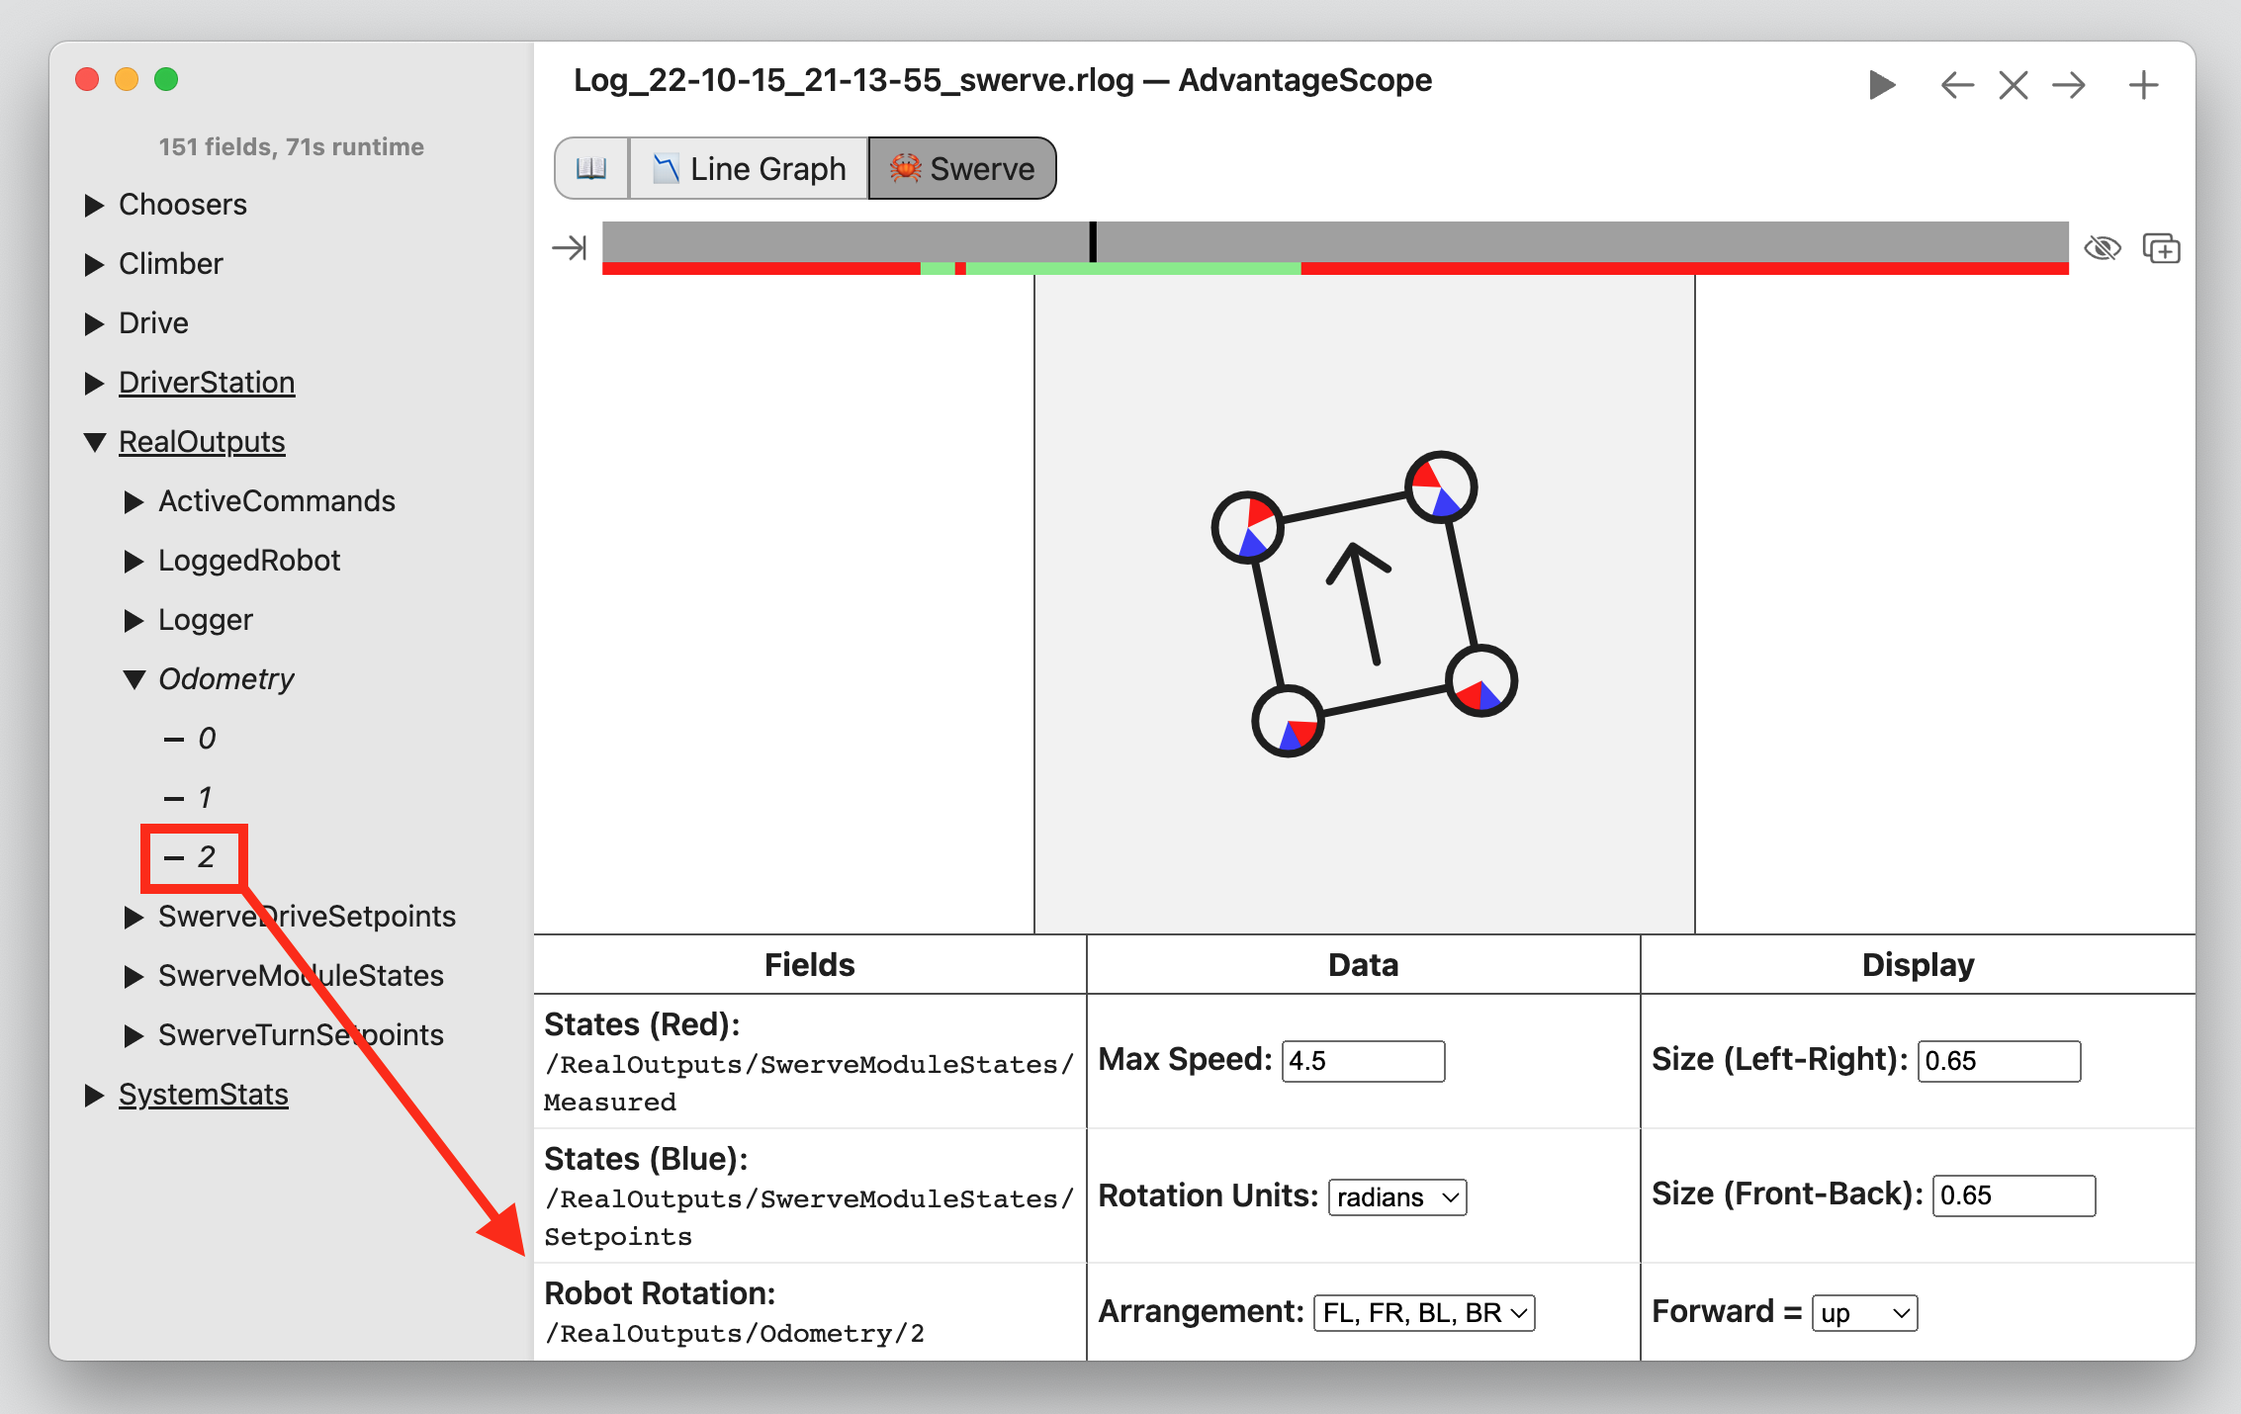
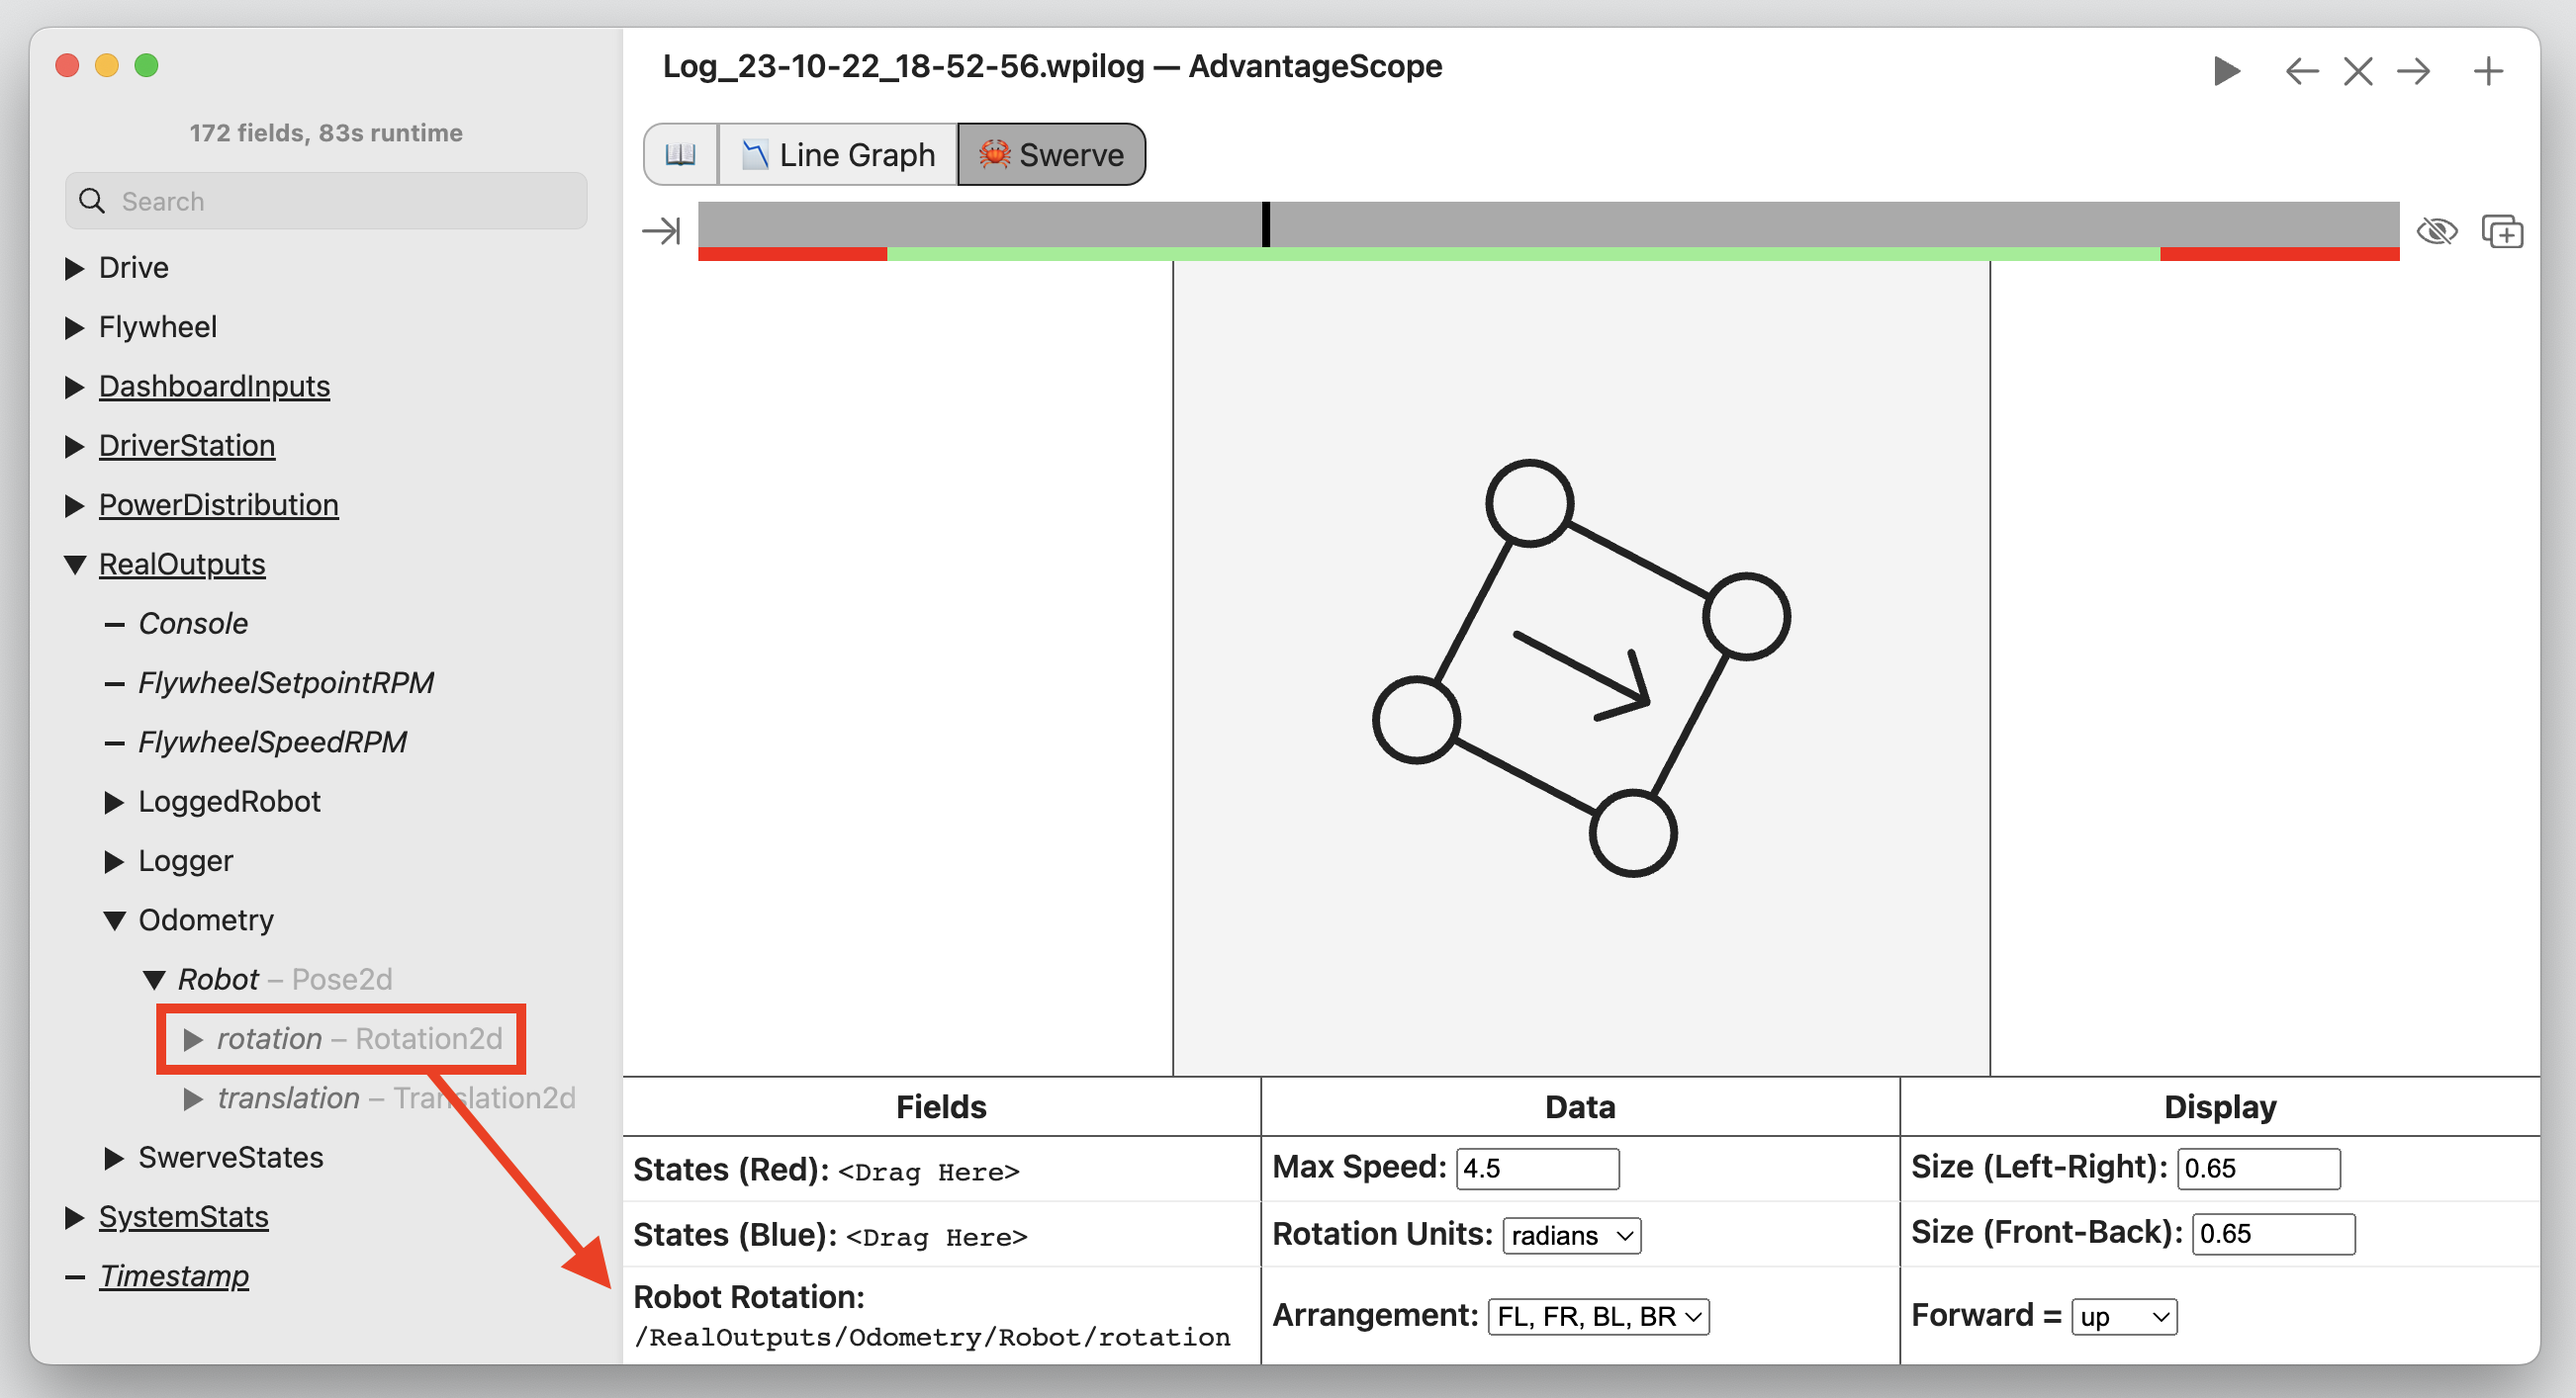
Add struct & protobuf formats to docs

diff --git a/docs/tabs/3D-FIELD.md b/docs/tabs/3D-FIELD.md
@@ -10,13 +10,49 @@ This tab shows a 3D visualization of the robot and field. It can be used with re
 
 ## Pose Data
 
-> Note: WPILib and AdvantageKit are planning to add struct & protobuf support before the 2024 season. This will allow for poses to be directly logged from robot code without converting to numeric arrays. More information about this feature will be available soon.
+To add a field with pose data, drag it from the sidebar to the box under "3D Poses" or "2D Poses" and use the drop down to select an object type. Multiple sets of objects can be added this way, and fields can be included multiple times. To remove a set of objects, right-click the field name. The origin and units are configurable.
 
-To add a field with pose data, drag it from the sidebar to the box under "3D Poses" or "2D Poses" and use the drop down to select an object type. Multiple sets of objects can be added this way, and fields can be included multiple times. To remove a set of objects, right-click the field name.
+### Structured Format
 
-All pose data must be stored as a numeric array describing one or more poses with the formats shown below.
+Pose data can be stored as a byte-encoded struct or protobuf. The following data types are supported:
 
-### 2D Poses
+- `Pose3d`
+- `Pose2d`
+- `Translation3d`
+- `Translation2d`
+- `Transform3d`
+- `Transform2d`
+- `AprilTag`
+- `Trajectory`
+
+The example code below show how to log pose data using WPILib or AdvantageKit.
+
+```java
+Pose3d poseA = new Pose3d();
+Pose3d poseB = new Pose3d();
+
+// WPILib
+StructPublisher<Pose3d> publisher = NetworkTableInstance.getDefault()
+    .getStructTopic("MyPose", Pose3d.struct).publish();
+StructArrayPublisher<Pose3d> arrayPublisher = NetworkTableInstance.getDefault()
+    .getStructArrayTopic("MyPoseArray", Pose3d.struct).publish();
+
+periodic() {
+    publisher.set(poseA);
+    arrayPublisher.set(new Pose3d[] {poseA, poseB});
+}
+
+// AdvantageKit
+Logger.recordOutput("MyPose", poseA);
+Logger.recordOutput("MyPoseArray", poseA, poseB);
+Logger.recordOutput("MyPoseArray", new Pose3d[] {poseA, poseB});
+```
+
+### Legacy Format
+
+Alternatively, pose data can be stored as a numeric array describing one or more poses with the formats shown below.
+
+**2D Poses**
 
 ```
 [
@@ -26,11 +62,9 @@ All pose data must be stored as a numeric array describing one or more poses wit
 ]
 ```
 
-The 2D rotation must be CCW+, which matches the standard [WPILib coordinate system](https://docs.wpilib.org/en/stable/docs/software/advanced-controls/geometry/coordinate-systems.html). The linear and angular units are configurable.
+The 2D rotation must be CCW+, and the units (radians/degrees) are configurable.
 
-> Note: To log Pose2d and trajectory values with WPILib, use the [Field2d](https://docs.wpilib.org/en/stable/docs/software/dashboards/glass/field2d-widget.html) class. With AdvantageKit, call `Logger.getInstance().recordOutput(key, poses...);` or `Logger.getInstance().recordOutput(key, trajectory);`
-
-### 3D Poses
+**3D Poses**
 
 ```
 [
@@ -40,9 +74,7 @@ The 2D rotation must be CCW+, which matches the standard [WPILib coordinate syst
 ]
 ```
 
-The w, x, y, and z rotation values represent a quaternion, which is used internally by WPILib's Rotation3d class. The linear units are configurable.
-
-> Note: To log Pose3d values with AdvantageKit, call `Logger.getInstance().recordOutput(key, poses...);`
+The w, x, y, and z rotation values represent a quaternion, which is used internally by WPILib's `Rotation3d` class.
 
 ## Objects
 

diff --git a/docs/tabs/ODOMETRY.md b/docs/tabs/ODOMETRY.md
@@ -10,11 +10,47 @@ The odometry tab shows a 2D visualization of the robot overlayed on a map of the
 
 ## Pose Data
 
-> Note: WPILib and AdvantageKit are planning to add struct & protobuf support before the 2024 season. This will allow for poses to be directly logged from robot code without converting to numeric arrays. More information about this feature will be available soon.
+To add a field with pose data, drag it from the sidebar to the box under "Poses" and use the drop down to select an object type. Multiple sets of objects can be added this way, and fields can be included multiple times. To remove a set of objects, right-click the field name.
 
-To add a field with pose data, drag it from the sidebar to the box under "Poses" and use the drop down to select an object type. Multiple sets of objects can be added this way, and fields can be included multiple times. To remove a set of objects, right-click the field name under "Poses".
+Multiple poses are typically shown as duplicate objects, except for trajectories (where each pose is a point along the trajectory). The origin and units are configurable.
 
-All pose data must be stored as a numeric array describing one or more 2D poses with the following format:
+### Structured Format
+
+Pose data can be stored as a byte-encoded struct or protobuf. The following data types are supported:
+
+- `Pose2d`
+- `Translation2d`
+- `Transform2d`
+- `Trajectory`
+
+The example code below show how to log pose data using WPILib or AdvantageKit.
+
+```java
+Pose2d poseA = new Pose2d();
+Pose2d poseB = new Pose2d();
+
+// WPILib
+StructPublisher<Pose2d> publisher = NetworkTableInstance.getDefault()
+    .getStructTopic("MyPose", Pose2d.struct).publish();
+StructArrayPublisher<Pose2d> arrayPublisher = NetworkTableInstance.getDefault()
+    .getStructArrayTopic("MyPoseArray", Pose2d.struct).publish();
+
+periodic() {
+    publisher.set(poseA);
+    arrayPublisher.set(new Pose2d[] {poseA, poseB});
+}
+
+// AdvantageKit
+Logger.recordOutput("MyPose", poseA);
+Logger.recordOutput("MyPoseArray", poseA, poseB);
+Logger.recordOutput("MyPoseArray", new Pose3d[] {poseA, poseB});
+```
+
+WPILib's [`Field2d`](https://docs.wpilib.org/en/stable/docs/software/dashboards/glass/field2d-widget.html) class can also be used to log several sets of pose data together.
+
+### Legacy Format
+
+Alternatively, pose data can be stored as a numeric array describing one or more 2D poses with the following format:
 
 ```
 [
@@ -24,9 +60,7 @@ All pose data must be stored as a numeric array describing one or more 2D poses 
 ]
 ```
 
-Multiple poses are typically shown as duplicate objects, except for trajectories (where each pose is a point along the trajectory). The rotation must be CCW+, which matches the standard [WPILib coordinate system](https://docs.wpilib.org/en/stable/docs/software/advanced-controls/geometry/coordinate-systems.html). The origin and units are configurable.
-
-> Note: To log Pose2d and trajectory values with WPILib, use the [Field2d](https://docs.wpilib.org/en/stable/docs/software/dashboards/glass/field2d-widget.html) class. With AdvantageKit, call `Logger.getInstance().recordOutput(key, poses...);` or `Logger.getInstance().recordOutput(key, trajectory);`
+The rotation must be CCW+, and the units (radians/degrees) are configurable.
 
 ## Objects
 

diff --git a/docs/tabs/SWERVE.md b/docs/tabs/SWERVE.md
@@ -12,13 +12,33 @@ The swerve tab shows the state of four swerve modules, including the velocity ve
 
 To selected a field, drag it to one of the labeled boxes. To remove a field, right-click the box. The purpose and expected format of each field is shown below.
 
-> Note: WPILib and AdvantageKit are planning to add struct & protobuf support before the 2024 season. This will allow for swerve states to be directly logged from robot code without converting to numeric arrays. More information about this feature will be available soon.
-
 ### States
 
 Two sets of module states can be displayed simultaneously in <span style="color: red;">red</span> and <span style="color: blue;">blue</span>. For instance, the measured states can be compared to the setpoints.
 
-The state fields should be numeric arrays with the format shown below. The rotation units are configurable (radians or degrees), and the velocity units should match the configured "Max Speed". The order of the modules is also configurable.
+Pose data can be stored as a struct array of `SwerveModuleState` objects. The example code below show how to log this data using WPILib or AdvantageKit. The velocity units should match the configured "Max Speed". The order of the modules is also configurable.
+
+```java
+SwerveModuleState[] states = new SwerveModuleState[] {
+    new SwerveModuleState(),
+    new SwerveModuleState(),
+    new SwerveModuleState(),
+    new SwerveModuleState()
+}
+
+// WPILib
+StructArrayPublisher<Pose2d> publisher = NetworkTableInstance.getDefault()
+    .getStructArrayTopic("MyStates", Pose2d.struct).publish();
+
+periodic() {
+    publisher.set(states);
+}
+
+// AdvantageKit
+Logger.recordOutput("MyStates", states);
+```
+
+Alternatively, the state fields can be numeric arrays with the format shown below. The rotation units are configurable (radians or degrees).
 
 ```
 [
@@ -29,11 +49,9 @@ The state fields should be numeric arrays with the format shown below. The rotat
 ]
 ```
 
-> Note: To log an array of SwerveModuleState objects using AdvantageKit, call `Logger.getInstance().recordOutput(key, states[]);`
-
 ### Robot Rotation
 
-This field can optionally be used to show the robot's current rotation (based on odometry or a gyro). The provided field should be a number in radians or degrees (the same units as the module rotations). If the robot's pose is already logged for the [odometry](/docs/tabs/ODOMETRY.md) tab, consider using the last item in the pose array as the robot rotation for swerve.
+This field can optionally be used to show the robot's current rotation (based on odometry or a gyro). The provided field should be a byte-encoded `Rotation2d` (struct/protobuf) or a number in radians/degrees (the same units as the module rotations). If the robot's pose is already logged, consider using the rotation element or the last item in the pose array as the robot rotation for swerve.
 
 ![Pose data as a rotation](/docs/resources/swerve/swerve-2.png)
 
